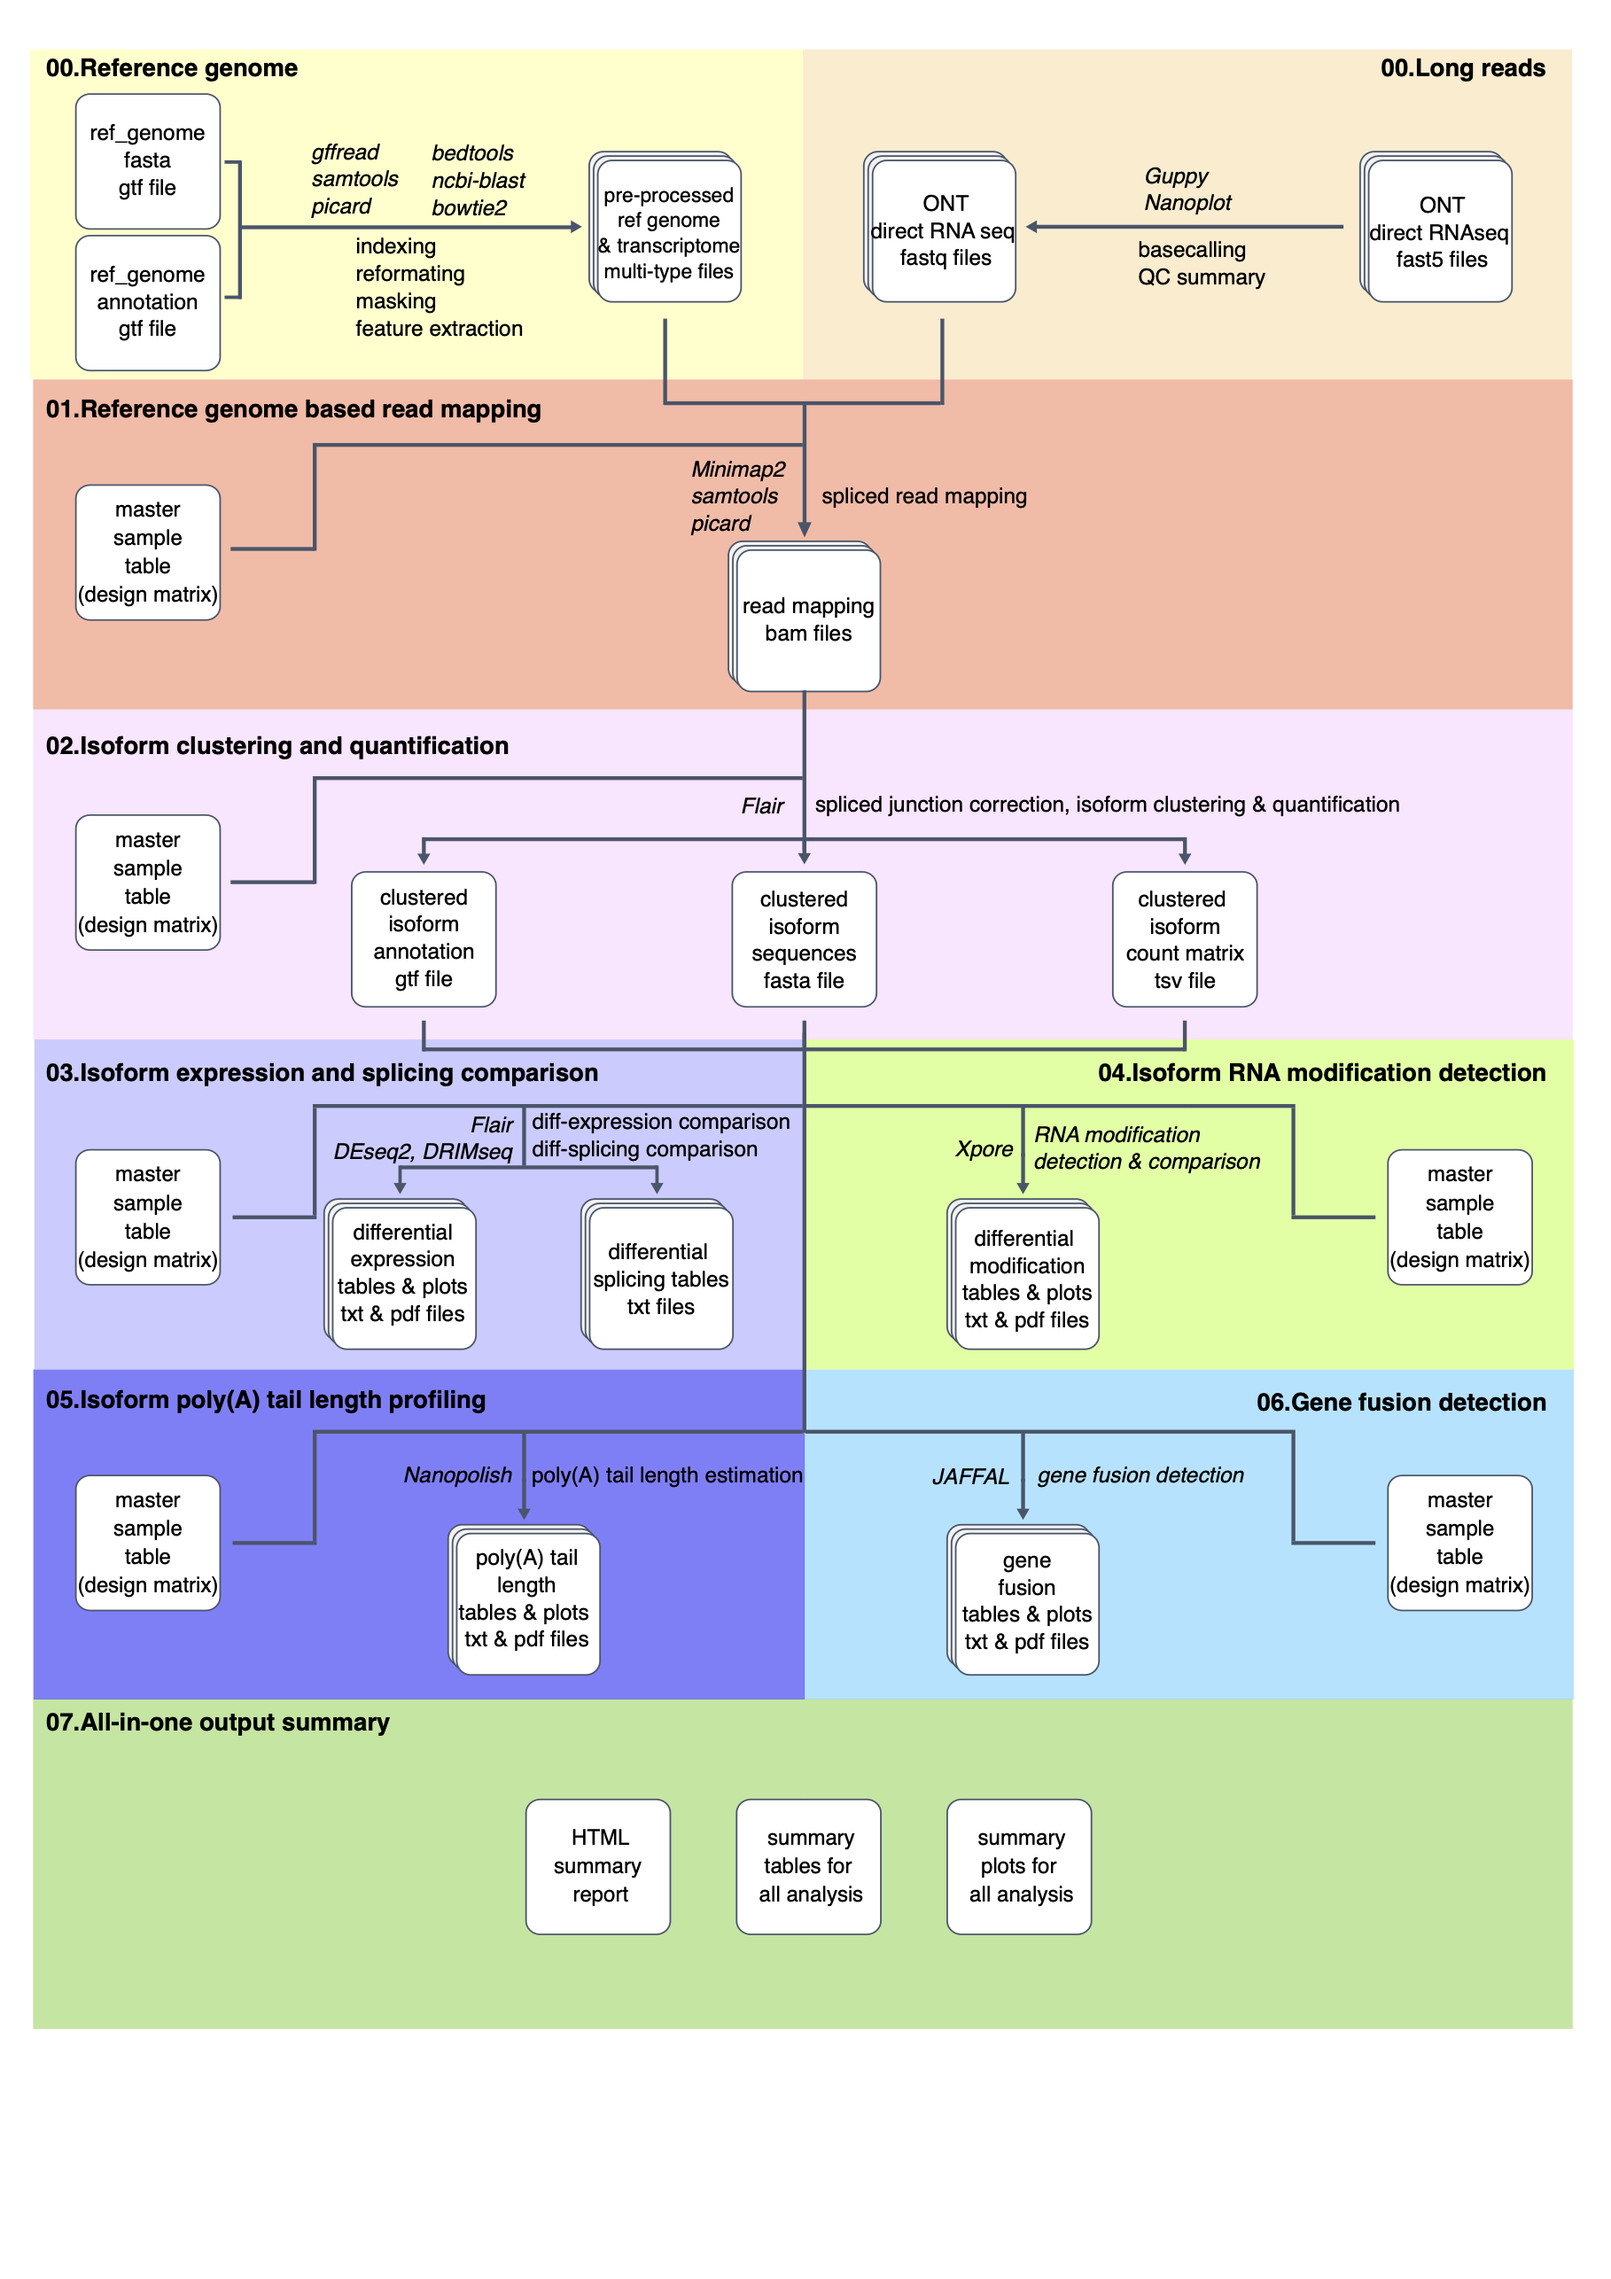
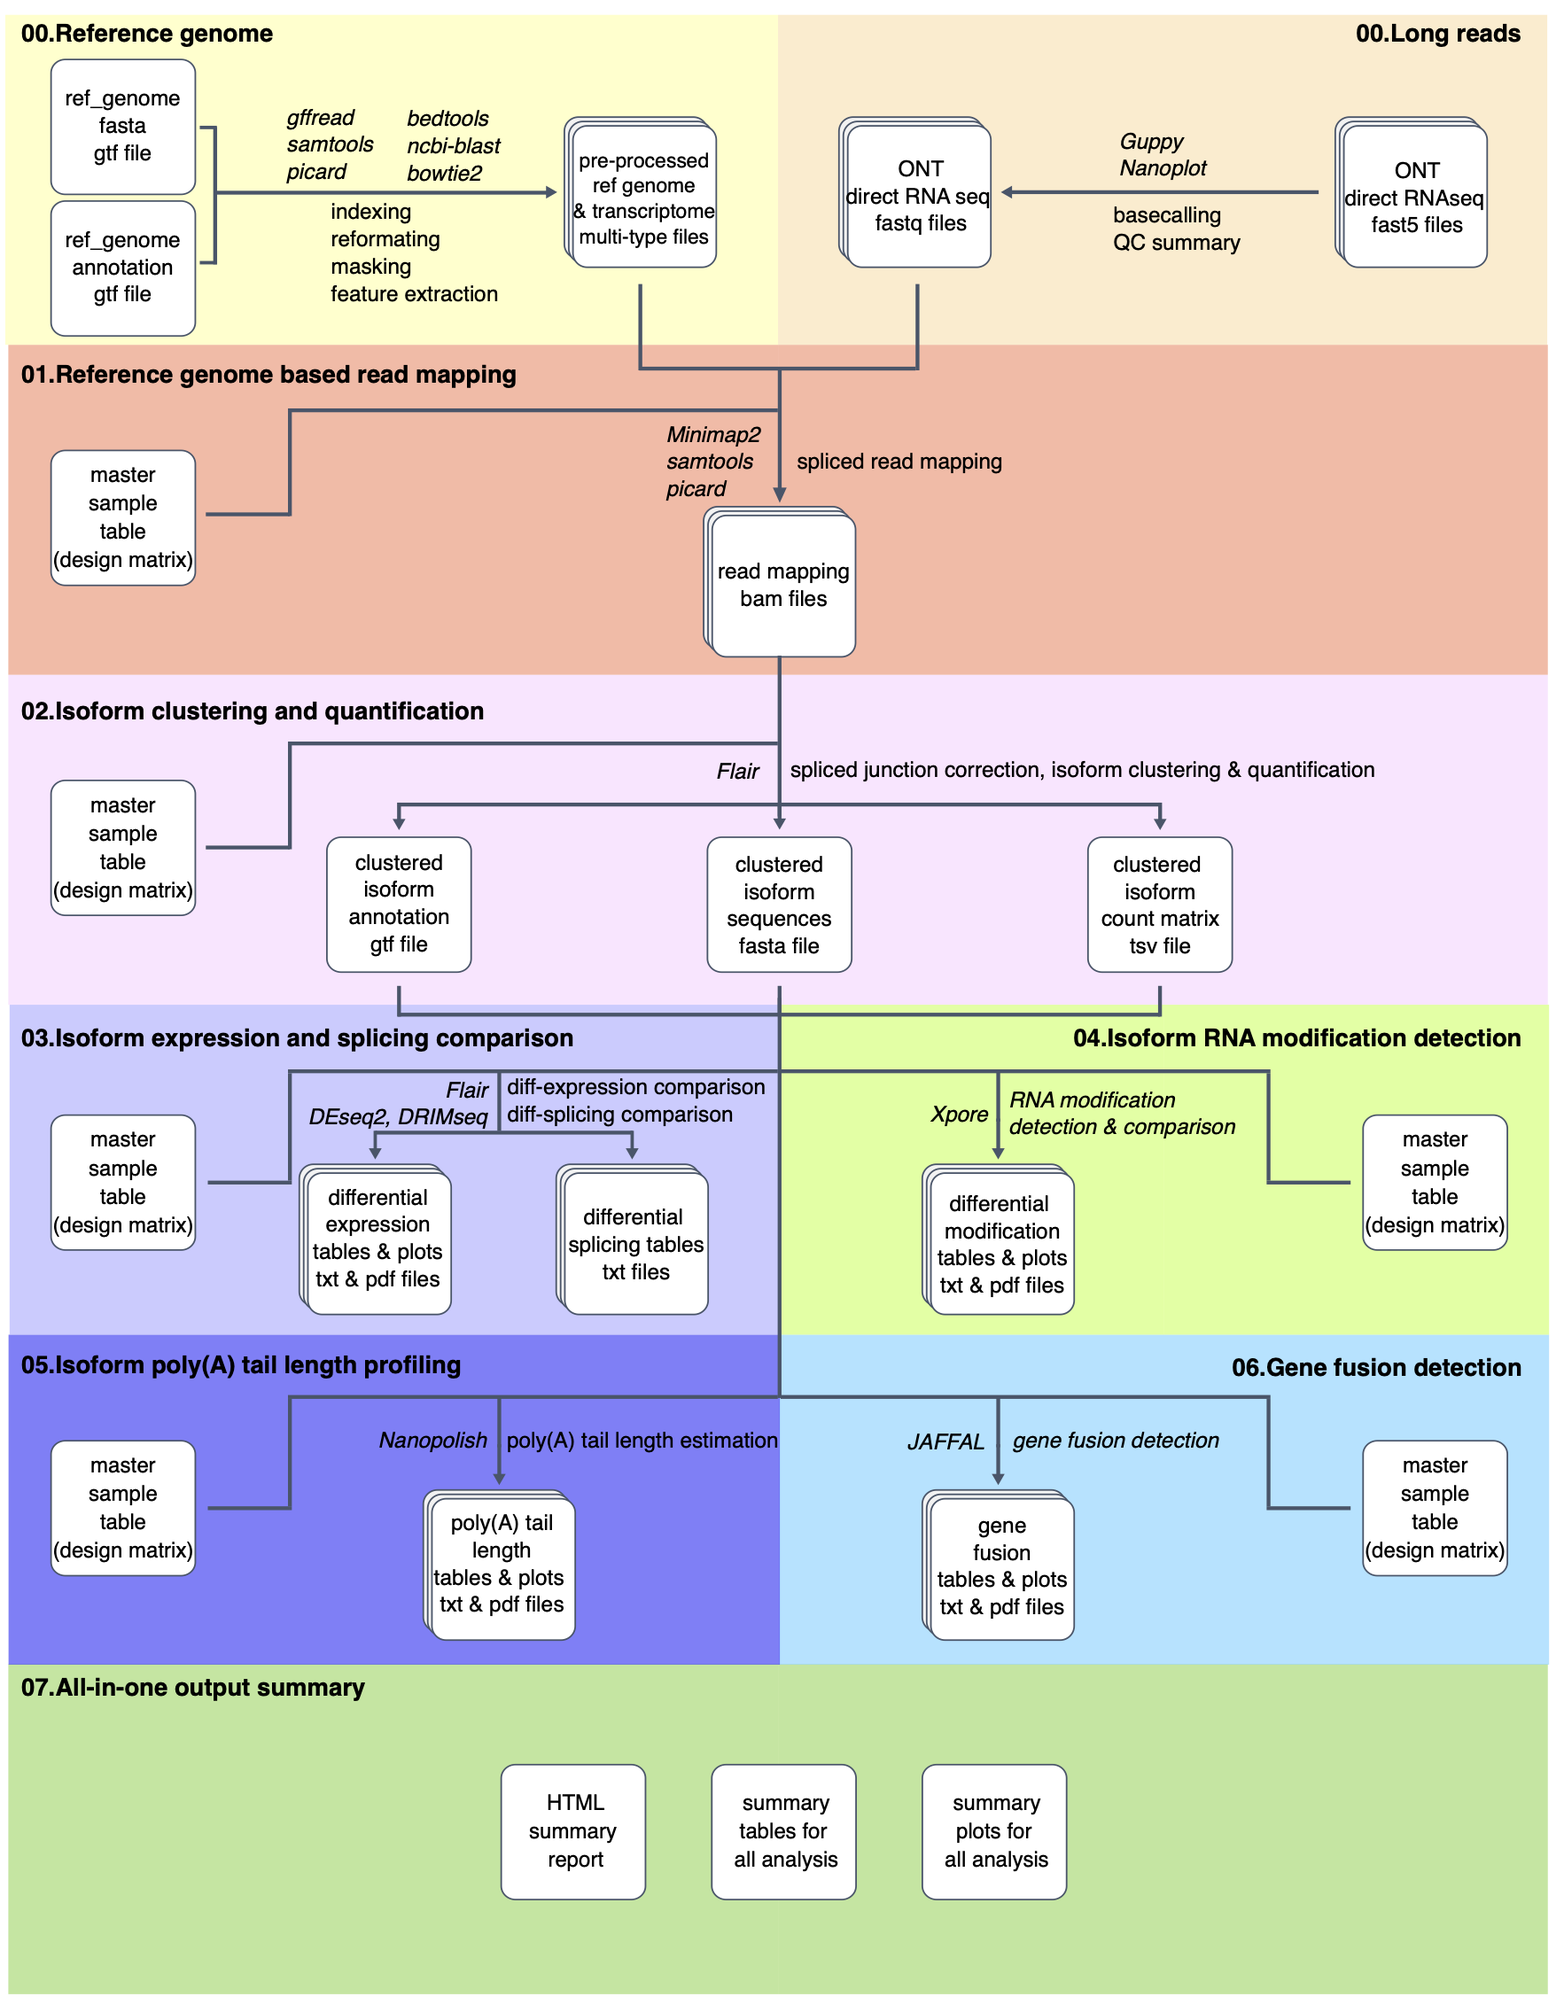
update README & overview fig size

diff --git a/README.md b/README.md
@@ -14,7 +14,7 @@ Nanopore direct-RNA sequencing (DRS) provides the direct access to native RNA st
 </div>
 
 <p align="center">
-  <img src="https://github.com/yjx1217/NanoTrans/blob/main/NanoTrans.overview.png" alt="NanoTrans_overview" width="800" height="1131"/>
+  <img src="https://github.com/yjx1217/NanoTrans/blob/main/NanoTrans.overview.png" alt="NanoTrans_overview" width="800" height="1030"/>
 </p>
 
 Under the hood, a series of task-specific modules are provided to carry out the full workflow of NanoTrans:
@@ -49,6 +49,14 @@ NanoTrans itself is distributed under the MIT license but some of its dependenci
 ## Release history
 * v0.0.1 Released on 2022/11/30
 * v0.0.2 Released on 2024/01/10
+* v0.0.3 Released on 2024/04/17
+  * Module 00: `new` Add a new bash script into Module 00 to support basecalling with Dorado; Module 05: `improvement` Cancel to specify basecalling sequencing summary for nanopolish index when using Dorado as basecalling tool.
+  * Module 02, 04, 05: `improvement` Support csi format index for BAM to adapt large chromosomes.
+  * Module 03: `improvement` Restore the “master_sample_table” argument to make comparisons easier; optimize plots.
+  * Module 04: `improvement` Compress large files to reduce disk usage; `fix` Skip query isoforms that do not exist in the reference.
+  * Module 07: `fix` Specify the R PATH used in installation step to fix the conflict of different versions of R.
+  * Installation: `fix` Add Java to the ENV PATH to fix the java version bug when identifying fused genes; `improvement` Install tools from local by replacing the URL with a local path.
+
 
 ## Installation
 ```sh
